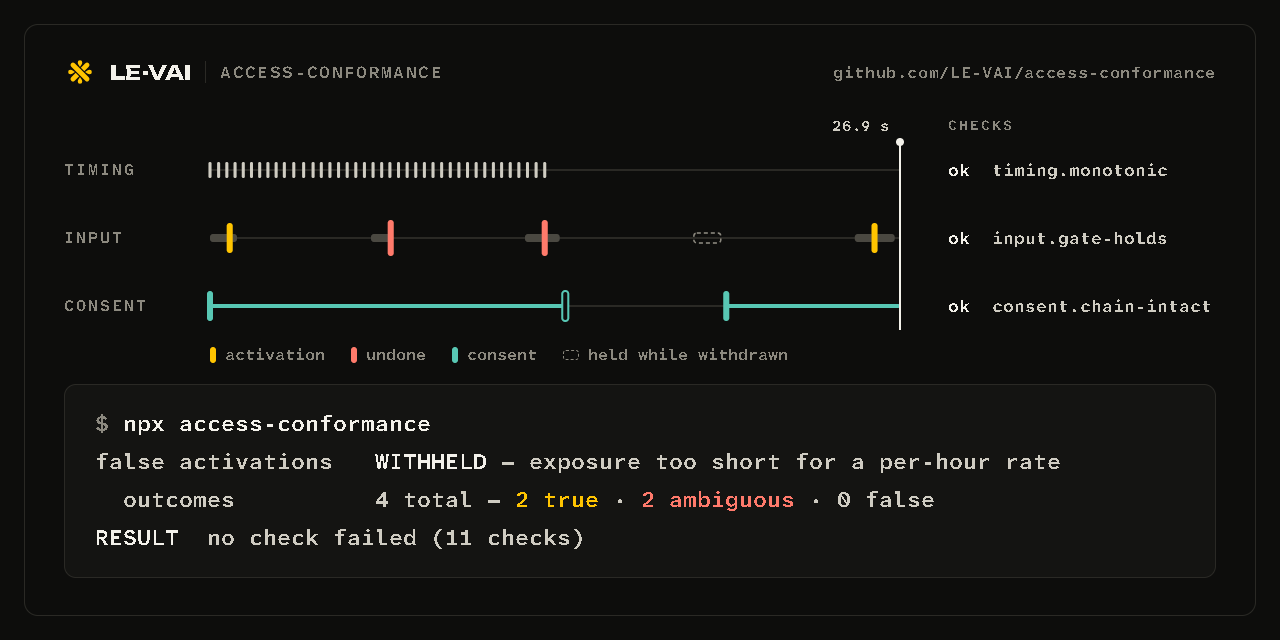
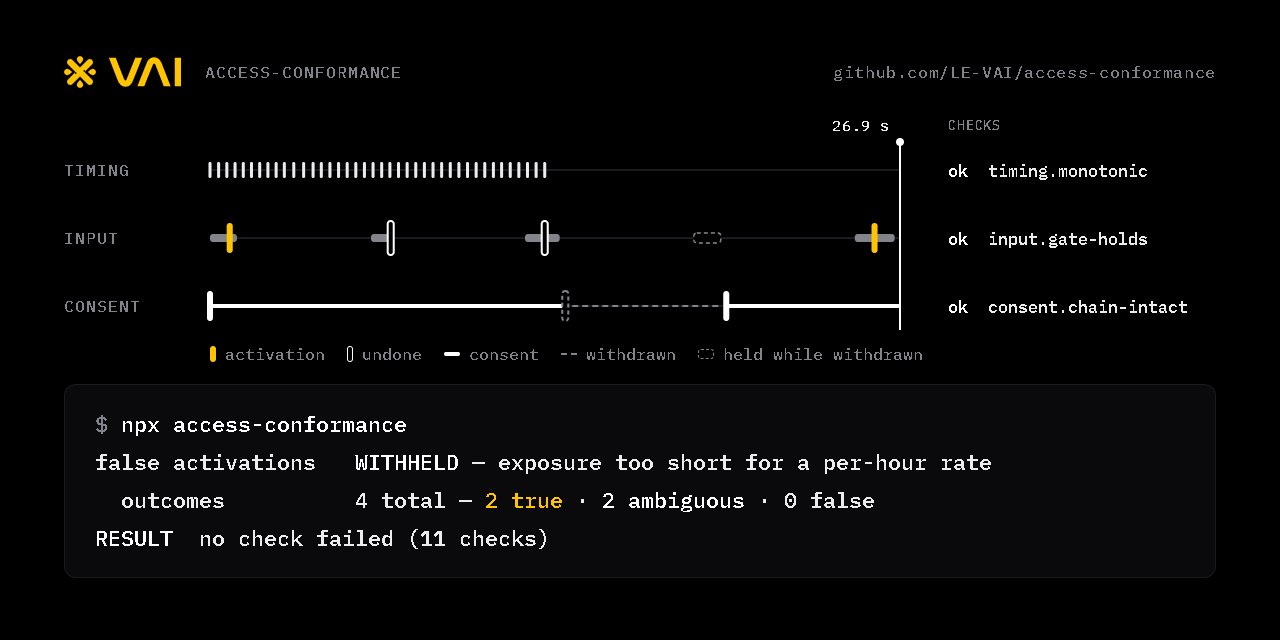
Hero loop and social card in VAI identity v2: black ground, Inter and IBM Plex Mono, the v2 lockup, yellow only on the signal (seam re-proven)

diff --git a/README.md b/README.md
@@ -4,7 +4,7 @@
 <p align="center">
   <picture>
     <source media="(prefers-reduced-motion: reduce)" srcset="docs/media/hero-poster.png">
-    <img src="docs/media/hero-loop.webp" width="800" alt="Three lanes, labelled timing, input and consent, run on one session clock. A playhead sweeps 26.9 seconds of session time. Forty token ticks light up on the timing lane. On the input lane two dwell activations land in yellow and two that were undone land in coral, while a hold made after consent was withdrawn stays dashed and never fires. On the consent lane a teal line is granted, breaks at the withdrawal and resumes when consent is re-granted. Three checks pass, one per lane, and the report types out: false activations withheld because the exposure was too short for a per-hour rate, 4 outcomes (2 true, 2 ambiguous, 0 false), and no check failed out of 11.">
+    <img src="docs/media/hero-loop.webp" width="800" alt="Three lanes, labelled timing, input and consent, run on one session clock. A playhead sweeps 26.9 seconds of session time. Forty token ticks light up on the timing lane. On the input lane two dwell activations land in yellow and two that were undone land as hollow white outlines, while a hold made after consent was withdrawn stays dashed and never fires. On the consent lane a white line is granted, breaks at the withdrawal and resumes when consent is re-granted. Three checks pass, one per lane, and the report types out: false activations withheld because the exposure was too short for a per-hour rate, 4 outcomes (2 true, 2 ambiguous, 0 false), and no check failed out of 11.">
   </picture>
 </p>
 <p align="center"><sub>A 5.4-second loop. It plays once and rests, and shows a still frame if you prefer reduced motion. <a href="https://le-vai.github.io/LE-VAI/loops/#access-conformance">Watch it on repeat</a>.</sub></p>
